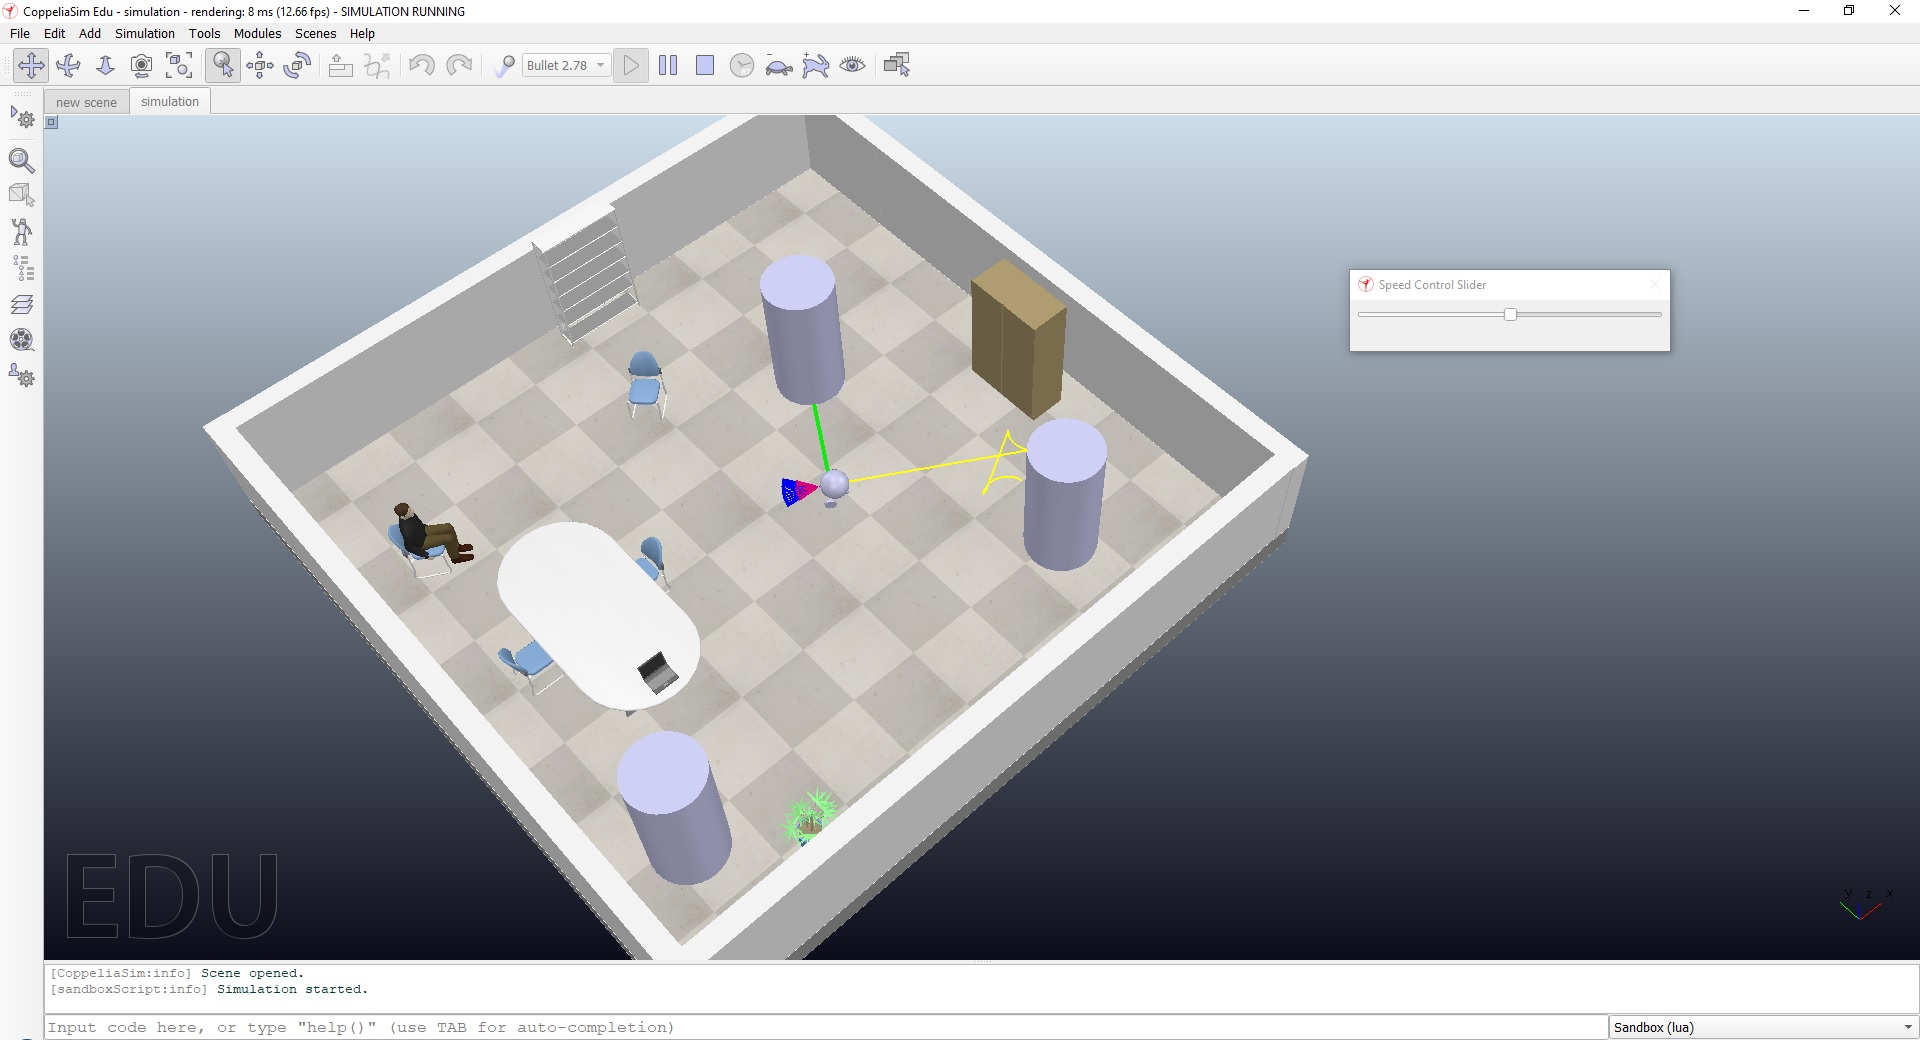
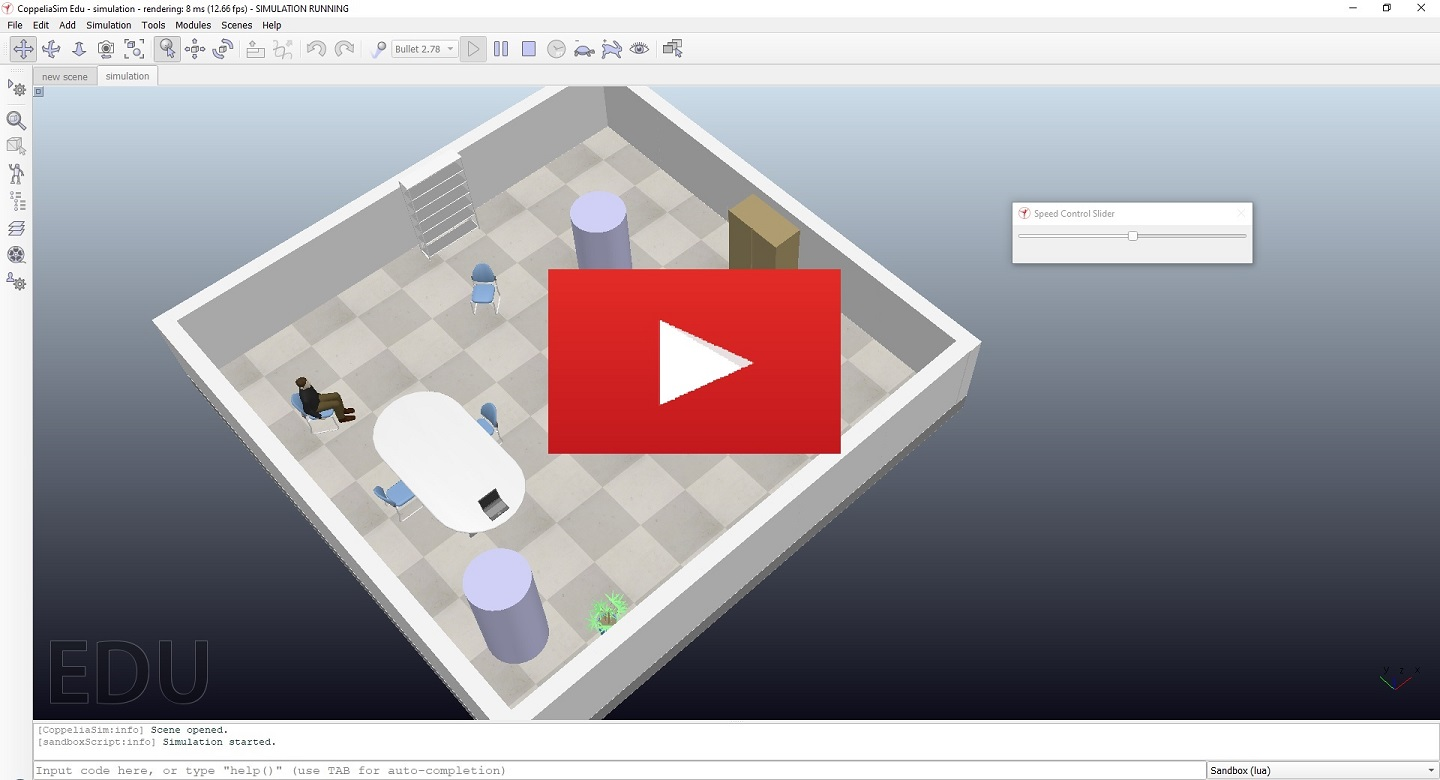
Creating README and demonstration video.

diff --git a/README.md b/README.md
@@ -1,2 +1,52 @@
-# autonomous-search-rescue-robot-simulation
- AI-driven robot (CoppeliaSim and Lua) that navigates its environment to detect and interact with obstacles and a designated target.
+# Autonomous Search and Rescue Robot Simulation
+
+This project, written in Lua and modeled in CoppeliaSim, demonstrates an adaptive robot capable of navigating its environment autonomously to detect and interact with obstacles and a designated target. The robot uses proximity sensors and reactive decision-making algorithms to avoid obstacles and locate the target with precision. Additionally, the project includes a user interface for real-time speed control, providing flexibility and customization during operation.
+
+## Table of Contents
+
+- [Features and Code Overview](#features-and-code-overview)
+- [Installation](#installation)
+- [Usage](#usage)
+- [Video Demonstration](#video-demonstration)
+- [License](#license)
+- [Acknowledgments](#acknowledgments)
+
+## Features and Code Overview
+
+This project showcases an autonomous robot equipped with real-time sensor-based navigation and control mechanisms. Key features and their corresponding technical implementations include:
+
+- **Autonomous Decision-Making**: The robot processes real-time data from proximity sensors to navigate and respond dynamically to its surroundings.
+- **Obstacle Detection and Avoidance**: Using proximity sensors, the robot detects obstacles in its path, autonomously backing up / rotating when blocked and resuming forward motion when the path is clear.
+- **Target Detection**: The robot identifies a specific target (referred to as the "victim") using proximity sensors. Upon detection, the robot changes the sensor color to green, signaling mission success.
+- **Dynamic Speed Control**: A user-friendly interface, built with the SimUI library, allows real-time speed adjustments, enabling experimentation and precise control during the simulation.
+- **Visualization**: The robot's movement, interactions with obstacles, and target detection are visualized through drawing objects in the simulation, providing an intuitive way to monitor its behavior.
+
+By combining these features, the robot achieves autonomous navigation, responsive behavior, and target detection in a visually rich simulation environment. The modular and adjustable design makes it a versatile tool for experimentation and demonstration.
+
+## Installation
+1. Clone the repository to your local machine:
+   ```bash
+   git clone https://github.com/LoganDrdaCS/autonomous-search-rescue-robot-simulation.git
+   ```
+2. Ensure you have [CoppeliaSim](http://www.coppeliarobotics.com/) installed for running the simulation.
+3. Place the simulation files in your CoppeliaSim directory, and open the simulation in the CoppeliaSim interface.
+
+## Usage
+- **Running the Simulation**: Launch the simulation by pressing the play button in CoppeliaSim, where the robot will begin navigating autonomously.
+- **Control Speed**: Adjust the robot's speed in real-time using the custom UI slider.
+- **Robot Behavior**: 
+  - The robot detects obstacles and backs up / turns if blocked.
+  - Once the path is clear, it resumes forward motion.
+  - Upon detecting the target, the robot stops, prints the victim's coordinates, and changes the sensor color to green, indicating success. The UI is disabled at this point.
+
+## Video Demonstration
+Check out a narrated demonstration of the project on YouTube:
+
+[![Watch the Demo](images/demonstration.jpg)](https://youtu.be/3q-JUUq5fc0)
+
+## License:
+This project is licensed under the MIT License - see the [LICENSE](LICENSE) file for details.
+
+## Acknowledgments:
+- CoppeliaSim for the simulation environment and the 3D model of the robot (BubbleRob)
+- SimUI library for user interface creation.
